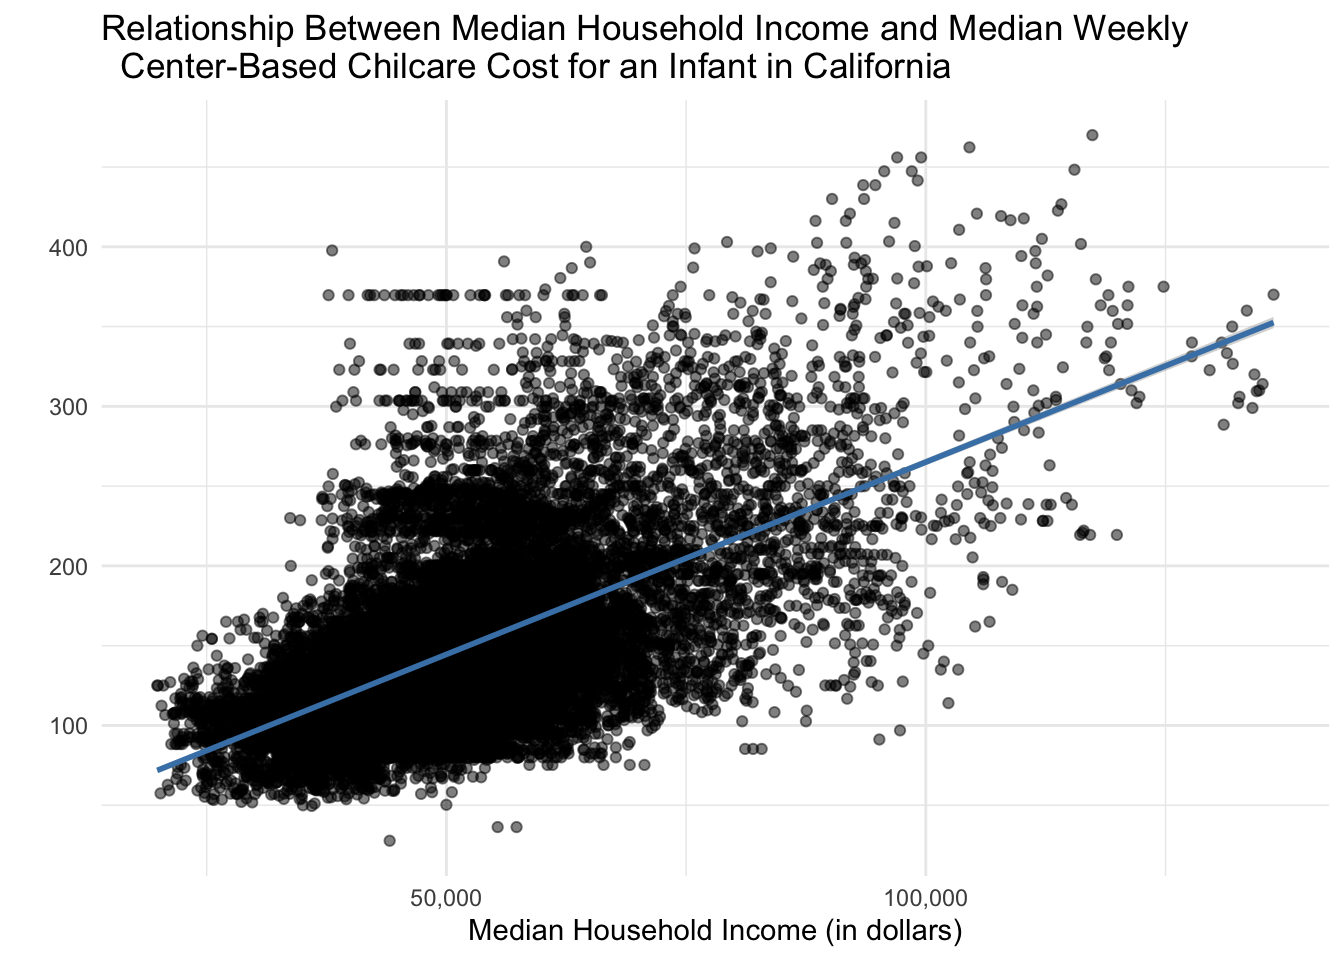
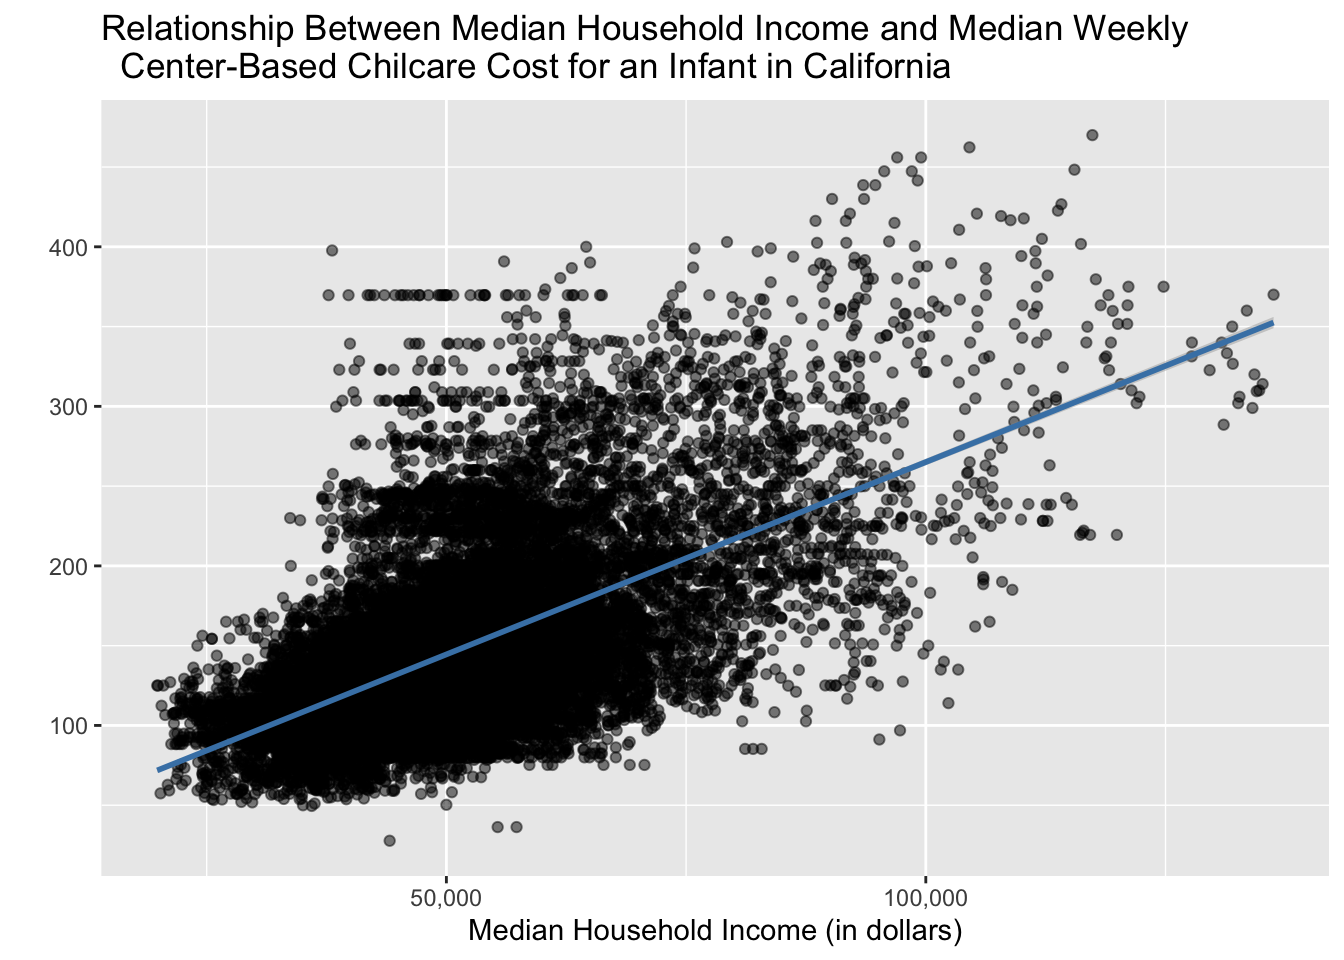
Final lab

diff --git a/lab-4-student.html b/lab-4-student.html
@@ -138,14 +138,20 @@ window.Quarto = {
 <p>The data come to us from <a href="https://github.com/rfordatascience/tidytuesday">TidyTuesday</a>.</p>
 <p><strong>0. Load the appropriate libraries and the data.</strong></p>
 <div class="cell">
+<details class="code-fold">
+<summary>Code</summary>
 <div class="sourceCode cell-code" id="cb1"><pre class="sourceCode r code-with-copy"><code class="sourceCode r"><span id="cb1-1"><a href="#cb1-1" aria-hidden="true" tabindex="-1"></a><span class="fu">library</span>(tidyverse)</span></code><button title="Copy to Clipboard" class="code-copy-button"><i class="bi"></i></button></pre></div>
+</details>
 </div>
 <div class="cell">
+<details class="code-fold">
+<summary>Code</summary>
 <div class="sourceCode cell-code" id="cb2"><pre class="sourceCode r code-with-copy"><code class="sourceCode r"><span id="cb2-1"><a href="#cb2-1" aria-hidden="true" tabindex="-1"></a>childcare_costs <span class="ot">&lt;-</span> <span class="fu">read_csv</span>(<span class="st">'https://raw.githubusercontent.com/rfordatascience/tidytuesday/master/data/2023/2023-05-09/childcare_costs.csv'</span>)</span>
 <span id="cb2-2"><a href="#cb2-2" aria-hidden="true" tabindex="-1"></a></span>
 <span id="cb2-3"><a href="#cb2-3" aria-hidden="true" tabindex="-1"></a>counties <span class="ot">&lt;-</span> <span class="fu">read_csv</span>(<span class="st">'https://raw.githubusercontent.com/rfordatascience/tidytuesday/master/data/2023/2023-05-09/counties.csv'</span>)</span>
 <span id="cb2-4"><a href="#cb2-4" aria-hidden="true" tabindex="-1"></a></span>
 <span id="cb2-5"><a href="#cb2-5" aria-hidden="true" tabindex="-1"></a><span class="fu">glimpse</span>(childcare_costs)</span></code><button title="Copy to Clipboard" class="code-copy-button"><i class="bi"></i></button></pre></div>
+</details>
 <div class="cell-output cell-output-stdout">
 <pre><code>Rows: 34,567
 Columns: 61
@@ -211,7 +217,10 @@ $ mfcc_infant               &lt;dbl&gt; 83.45, 87.39, 91.33, 95.28, 99.22, 103.1
 $ mfcc_toddler              &lt;dbl&gt; 83.45, 87.39, 91.33, 95.28, 99.22, 103.16, 1…
 $ mfcc_preschool            &lt;dbl&gt; 81.40, 85.68, 89.96, 94.25, 98.53, 102.82, 1…</code></pre>
 </div>
+<details class="code-fold">
+<summary>Code</summary>
 <div class="sourceCode cell-code" id="cb4"><pre class="sourceCode r code-with-copy"><code class="sourceCode r"><span id="cb4-1"><a href="#cb4-1" aria-hidden="true" tabindex="-1"></a><span class="fu">glimpse</span>(counties)</span></code><button title="Copy to Clipboard" class="code-copy-button"><i class="bi"></i></button></pre></div>
+</details>
 <div class="cell-output cell-output-stdout">
 <pre><code>Rows: 3,144
 Columns: 4
@@ -229,15 +238,20 @@ $ state_abbreviation &lt;chr&gt; "AL", "AL", "AL", "AL", "AL", "AL", "AL", "AL",
 <p>Let’s start by focusing only on California.</p>
 <p><strong>2. Create a <code>ca_childcare</code> dataset of childcare costs in California, containing (1) county information and (2) all information from the <code>childcare_costs</code> dataset.</strong> <em>Hint: There are 58 counties in CA and 11 years in the dataset. Therefore, your new dataset should have 53 x 11 = 638 observations.</em></p>
 <div class="cell">
+<details class="code-fold">
+<summary>Code</summary>
 <div class="sourceCode cell-code" id="cb6"><pre class="sourceCode r code-with-copy"><code class="sourceCode r"><span id="cb6-1"><a href="#cb6-1" aria-hidden="true" tabindex="-1"></a>ca_childcare <span class="ot">&lt;-</span> counties <span class="sc">|&gt;</span> </span>
 <span id="cb6-2"><a href="#cb6-2" aria-hidden="true" tabindex="-1"></a>  <span class="fu">filter</span>(state_abbreviation <span class="sc">==</span> <span class="st">"CA"</span>) <span class="sc">|&gt;</span></span>
 <span id="cb6-3"><a href="#cb6-3" aria-hidden="true" tabindex="-1"></a>  <span class="fu">right_join</span>(childcare_costs,</span>
 <span id="cb6-4"><a href="#cb6-4" aria-hidden="true" tabindex="-1"></a>             <span class="at">by =</span> <span class="st">"county_fips_code"</span></span>
 <span id="cb6-5"><a href="#cb6-5" aria-hidden="true" tabindex="-1"></a>             )</span></code><button title="Copy to Clipboard" class="code-copy-button"><i class="bi"></i></button></pre></div>
+</details>
 </div>
 <p><strong>3. Using a function from the <code>forcats</code> package, complete the code below to create a new variable where each county is categorized into one of the <a href="https://census.ca.gov/regions/">10 Census regions</a> in California. Use the Region description (from the plot), not the Region number.</strong><br>
 <em>Hint: This is probably a good place to use ChatGPT to reduce on tedious work. But you do need to know how to prompt ChatGPT to make it useful!</em></p>
 <div class="cell">
+<details class="code-fold">
+<summary>Code</summary>
 <div class="sourceCode cell-code" id="cb7"><pre class="sourceCode r code-with-copy"><code class="sourceCode r"><span id="cb7-1"><a href="#cb7-1" aria-hidden="true" tabindex="-1"></a>ca_childcare <span class="ot">&lt;-</span> ca_childcare <span class="sc">|&gt;</span> </span>
 <span id="cb7-2"><a href="#cb7-2" aria-hidden="true" tabindex="-1"></a> <span class="fu">mutate</span>(<span class="at">county_name =</span> <span class="fu">str_remove</span>(county_name, <span class="st">" County"</span>)) <span class="sc">|&gt;</span></span>
 <span id="cb7-3"><a href="#cb7-3" aria-hidden="true" tabindex="-1"></a>  <span class="fu">mutate</span>(<span class="at">region =</span> <span class="fu">fct_collapse</span>(county_name,</span>
@@ -307,9 +321,12 @@ $ state_abbreviation &lt;chr&gt; "AL", "AL", "AL", "AL", "AL", "AL", "AL", "AL",
 <span id="cb7-67"><a href="#cb7-67" aria-hidden="true" tabindex="-1"></a>                                                    )</span>
 <span id="cb7-68"><a href="#cb7-68" aria-hidden="true" tabindex="-1"></a>                               )</span>
 <span id="cb7-69"><a href="#cb7-69" aria-hidden="true" tabindex="-1"></a>         ) </span></code><button title="Copy to Clipboard" class="code-copy-button"><i class="bi"></i></button></pre></div>
+</details>
 </div>
 <p><strong>4. Let’s consider the median household income of each region, and how that income has changed over time. Create a table with ten rows, one for each region, and two columns, one for 2008 and one for 2018. The cells should contain the <code>median</code> of the median household income (expressed in 2018 dollars) of the <code>region</code> and the <code>study_year</code>. Arrange the rows by 2018 values.</strong></p>
 <div class="cell">
+<details class="code-fold">
+<summary>Code</summary>
 <div class="sourceCode cell-code" id="cb8"><pre class="sourceCode r code-with-copy"><code class="sourceCode r"><span id="cb8-1"><a href="#cb8-1" aria-hidden="true" tabindex="-1"></a>mhi_region <span class="ot">&lt;-</span> ca_childcare <span class="sc">|&gt;</span> </span>
 <span id="cb8-2"><a href="#cb8-2" aria-hidden="true" tabindex="-1"></a>  <span class="fu">select</span>(region, </span>
 <span id="cb8-3"><a href="#cb8-3" aria-hidden="true" tabindex="-1"></a>         study_year, </span>
@@ -328,10 +345,13 @@ $ state_abbreviation &lt;chr&gt; "AL", "AL", "AL", "AL", "AL", "AL", "AL", "AL",
 <span id="cb8-16"><a href="#cb8-16" aria-hidden="true" tabindex="-1"></a>          <span class="fu">desc</span>(<span class="st">`</span><span class="at">2018</span><span class="st">`</span></span>
 <span id="cb8-17"><a href="#cb8-17" aria-hidden="true" tabindex="-1"></a>              )</span>
 <span id="cb8-18"><a href="#cb8-18" aria-hidden="true" tabindex="-1"></a>          )</span></code><button title="Copy to Clipboard" class="code-copy-button"><i class="bi"></i></button></pre></div>
+</details>
 </div>
 <p><strong>5. Which California <code>region</code> had the lowest <code>median</code> full-time median weekly price for center-based childcare for infants in 2018? Does this <code>region</code> correspond to the <code>region</code> with the lowest <code>median</code> income in 2018 that you found in Q4?</strong><br>
 <em>Hint: The code should give me the EXACT answer. This means having the code output the exact row(s) and variable(s) necessary for providing the solution.</em></p>
 <div class="cell">
+<details class="code-fold">
+<summary>Code</summary>
 <div class="sourceCode cell-code" id="cb9"><pre class="sourceCode r code-with-copy"><code class="sourceCode r"><span id="cb9-1"><a href="#cb9-1" aria-hidden="true" tabindex="-1"></a>lowest_median_income <span class="ot">&lt;-</span> mhi_region <span class="sc">|&gt;</span> </span>
 <span id="cb9-2"><a href="#cb9-2" aria-hidden="true" tabindex="-1"></a>  <span class="fu">select</span>(region,</span>
 <span id="cb9-3"><a href="#cb9-3" aria-hidden="true" tabindex="-1"></a>         <span class="st">`</span><span class="at">2018</span><span class="st">`</span></span>
@@ -340,6 +360,7 @@ $ state_abbreviation &lt;chr&gt; "AL", "AL", "AL", "AL", "AL", "AL", "AL", "AL",
 <span id="cb9-6"><a href="#cb9-6" aria-hidden="true" tabindex="-1"></a>            <span class="at">n =</span> <span class="dv">1</span></span>
 <span id="cb9-7"><a href="#cb9-7" aria-hidden="true" tabindex="-1"></a>            )</span>
 <span id="cb9-8"><a href="#cb9-8" aria-hidden="true" tabindex="-1"></a> <span class="fu">print</span>(lowest_median_income)</span></code><button title="Copy to Clipboard" class="code-copy-button"><i class="bi"></i></button></pre></div>
+</details>
 <div class="cell-output cell-output-stdout">
 <pre><code># A tibble: 1 × 2
   region      `2018`
@@ -356,6 +377,8 @@ $ state_abbreviation &lt;chr&gt; "AL", "AL", "AL", "AL", "AL", "AL", "AL", "AL",
 </figure>
 </div>
 <div class="cell">
+<details class="code-fold">
+<summary>Code</summary>
 <div class="sourceCode cell-code" id="cb11"><pre class="sourceCode r code-with-copy"><code class="sourceCode r"><span id="cb11-1"><a href="#cb11-1" aria-hidden="true" tabindex="-1"></a>ca_childcare2 <span class="ot">&lt;-</span> ca_childcare <span class="sc">|&gt;</span></span>
 <span id="cb11-2"><a href="#cb11-2" aria-hidden="true" tabindex="-1"></a>  <span class="fu">select</span>(study_year,</span>
 <span id="cb11-3"><a href="#cb11-3" aria-hidden="true" tabindex="-1"></a>         mc_infant,</span>
@@ -395,6 +418,7 @@ $ state_abbreviation &lt;chr&gt; "AL", "AL", "AL", "AL", "AL", "AL", "AL", "AL",
 <span id="cb11-37"><a href="#cb11-37" aria-hidden="true" tabindex="-1"></a>                     ) <span class="sc">+</span></span>
 <span id="cb11-38"><a href="#cb11-38" aria-hidden="true" tabindex="-1"></a>    <span class="fu">theme</span>(<span class="at">axis.text.x =</span> <span class="fu">element_text</span>(<span class="at">angle =</span> <span class="dv">45</span>)</span>
 <span id="cb11-39"><a href="#cb11-39" aria-hidden="true" tabindex="-1"></a>          ) </span></code><button title="Copy to Clipboard" class="code-copy-button"><i class="bi"></i></button></pre></div>
+</details>
 <div class="cell-output-display">
 <div>
 <figure class="figure">
@@ -408,6 +432,8 @@ $ state_abbreviation &lt;chr&gt; "AL", "AL", "AL", "AL", "AL", "AL", "AL", "AL",
 <h2 class="anchored" data-anchor-id="median-household-income-vs.-childcare-costs-for-infants">Median Household Income vs.&nbsp;Childcare Costs for Infants</h2>
 <p><strong>7. Create a scatterplot showing the relationship between median household income (expressed in 2018 dollars) and the full-time median weekly price charged for center-based childcare for an infant in California. Overlay a linear regression line (lm) to show the trend.</strong></p>
 <div class="cell">
+<details class="code-fold">
+<summary>Code</summary>
 <div class="sourceCode cell-code" id="cb12"><pre class="sourceCode r code-with-copy"><code class="sourceCode r"><span id="cb12-1"><a href="#cb12-1" aria-hidden="true" tabindex="-1"></a><span class="fu">ggplot</span>(<span class="at">data =</span> ca_childcare, </span>
 <span id="cb12-2"><a href="#cb12-2" aria-hidden="true" tabindex="-1"></a>       <span class="at">mapping =</span> <span class="fu">aes</span>(<span class="at">x =</span> mhi_2018, </span>
 <span id="cb12-3"><a href="#cb12-3" aria-hidden="true" tabindex="-1"></a>                     <span class="at">y =</span> mc_infant</span>
@@ -421,9 +447,9 @@ $ state_abbreviation &lt;chr&gt; "AL", "AL", "AL", "AL", "AL", "AL", "AL", "AL",
 <span id="cb12-11"><a href="#cb12-11" aria-hidden="true" tabindex="-1"></a><span class="st">  Center-Based Chilcare Cost for an Infant in California"</span>,</span>
 <span id="cb12-12"><a href="#cb12-12" aria-hidden="true" tabindex="-1"></a>       <span class="at">x =</span> <span class="st">"Median Household Income (in dollars)"</span>, </span>
 <span id="cb12-13"><a href="#cb12-13" aria-hidden="true" tabindex="-1"></a>       <span class="at">y =</span> <span class="st">""</span></span>
-<span id="cb12-14"><a href="#cb12-14" aria-hidden="true" tabindex="-1"></a>       ) <span class="sc">+</span>  </span>
-<span id="cb12-15"><a href="#cb12-15" aria-hidden="true" tabindex="-1"></a>  <span class="fu">scale_x_continuous</span>(<span class="at">labels =</span> scales<span class="sc">::</span> comma) <span class="sc">+</span></span>
-<span id="cb12-16"><a href="#cb12-16" aria-hidden="true" tabindex="-1"></a>  <span class="fu">theme_minimal</span>()</span></code><button title="Copy to Clipboard" class="code-copy-button"><i class="bi"></i></button></pre></div>
+<span id="cb12-14"><a href="#cb12-14" aria-hidden="true" tabindex="-1"></a>       ) <span class="sc">+</span></span>
+<span id="cb12-15"><a href="#cb12-15" aria-hidden="true" tabindex="-1"></a>  <span class="fu">scale_x_continuous</span>(<span class="at">labels =</span> scales <span class="sc">::</span> comma) </span></code><button title="Copy to Clipboard" class="code-copy-button"><i class="bi"></i></button></pre></div>
+</details>
 <div class="cell-output-display">
 <div>
 <figure class="figure">
@@ -431,16 +457,24 @@ $ state_abbreviation &lt;chr&gt; "AL", "AL", "AL", "AL", "AL", "AL", "AL", "AL",
 </figure>
 </div>
 </div>
+<details class="code-fold">
+<summary>Code</summary>
+<div class="sourceCode cell-code" id="cb13"><pre class="sourceCode r code-with-copy"><code class="sourceCode r"><span id="cb13-1"><a href="#cb13-1" aria-hidden="true" tabindex="-1"></a><span class="co"># Used google to figure out how to transform numbers from scientific notation to standard notation </span></span>
+<span id="cb13-2"><a href="#cb13-2" aria-hidden="true" tabindex="-1"></a><span class="co"># https://forum.posit.co/t/ggplot2-histogram-of-frequencies-and-axis-formatting-comma-instead-is-scientific-in-facet-grid/66720 </span></span></code><button title="Copy to Clipboard" class="code-copy-button"><i class="bi"></i></button></pre></div>
+</details>
 </div>
 <p><strong>8. Look up the documentation for <code>lm()</code> and fit a linear regression model to the relationship shown in your plot above.</strong></p>
 <div class="cell">
-<div class="sourceCode cell-code" id="cb13"><pre class="sourceCode r code-with-copy"><code class="sourceCode r"><span id="cb13-1"><a href="#cb13-1" aria-hidden="true" tabindex="-1"></a><span class="co"># complete the code provided</span></span>
-<span id="cb13-2"><a href="#cb13-2" aria-hidden="true" tabindex="-1"></a>reg_mod1 <span class="ot">&lt;-</span> <span class="fu">lm</span>(mc_infant <span class="sc">~</span> mhi_2018,</span>
-<span id="cb13-3"><a href="#cb13-3" aria-hidden="true" tabindex="-1"></a>               <span class="at">data =</span> ca_childcare</span>
-<span id="cb13-4"><a href="#cb13-4" aria-hidden="true" tabindex="-1"></a>               )</span>
-<span id="cb13-5"><a href="#cb13-5" aria-hidden="true" tabindex="-1"></a>  </span>
-<span id="cb13-6"><a href="#cb13-6" aria-hidden="true" tabindex="-1"></a></span>
-<span id="cb13-7"><a href="#cb13-7" aria-hidden="true" tabindex="-1"></a><span class="fu">summary</span>(reg_mod1)</span></code><button title="Copy to Clipboard" class="code-copy-button"><i class="bi"></i></button></pre></div>
+<details class="code-fold">
+<summary>Code</summary>
+<div class="sourceCode cell-code" id="cb14"><pre class="sourceCode r code-with-copy"><code class="sourceCode r"><span id="cb14-1"><a href="#cb14-1" aria-hidden="true" tabindex="-1"></a><span class="co"># complete the code provided</span></span>
+<span id="cb14-2"><a href="#cb14-2" aria-hidden="true" tabindex="-1"></a>reg_mod1 <span class="ot">&lt;-</span> <span class="fu">lm</span>(mc_infant <span class="sc">~</span> mhi_2018,</span>
+<span id="cb14-3"><a href="#cb14-3" aria-hidden="true" tabindex="-1"></a>               <span class="at">data =</span> ca_childcare</span>
+<span id="cb14-4"><a href="#cb14-4" aria-hidden="true" tabindex="-1"></a>               )</span>
+<span id="cb14-5"><a href="#cb14-5" aria-hidden="true" tabindex="-1"></a>  </span>
+<span id="cb14-6"><a href="#cb14-6" aria-hidden="true" tabindex="-1"></a></span>
+<span id="cb14-7"><a href="#cb14-7" aria-hidden="true" tabindex="-1"></a><span class="fu">summary</span>(reg_mod1)</span></code><button title="Copy to Clipboard" class="code-copy-button"><i class="bi"></i></button></pre></div>
+</details>
 <div class="cell-output cell-output-stdout">
 <pre><code>
 Call:
